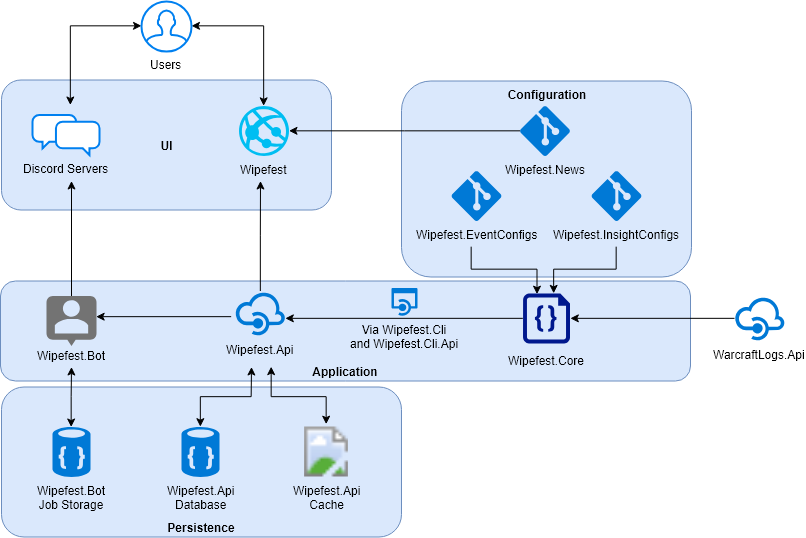
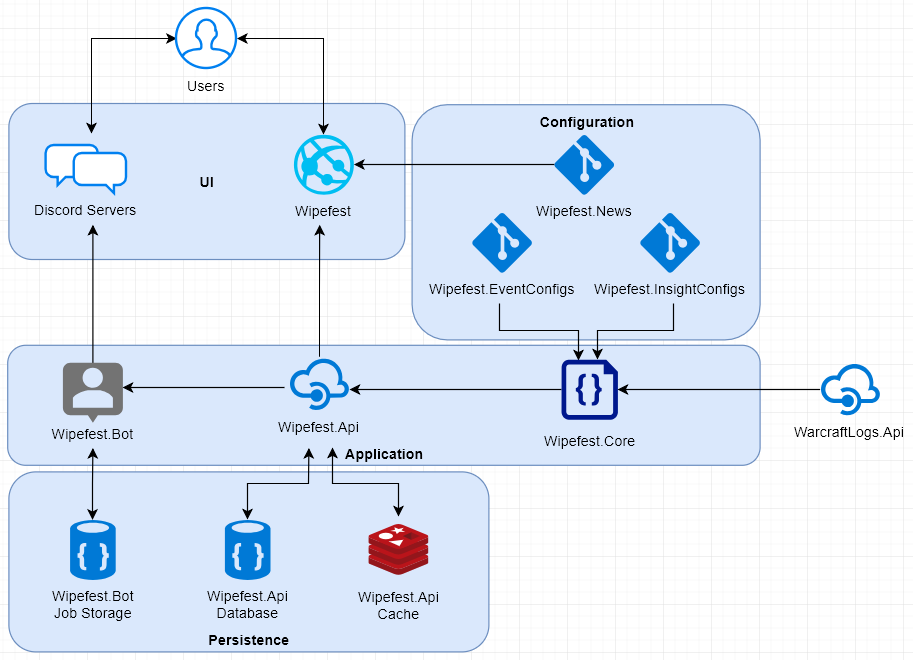
Readme

diff --git a/README.md b/README.md
@@ -1,28 +1,65 @@
 # Wipefest
 
-This project was generated with [Angular CLI](https://github.com/angular/angular-cli) version 1.0.3.
+[Wipefest](https://www.wipefest.net/) uses data from [Warcraft Logs](https://www.warcraftlogs.com/) to display insights and timelines for raid encounters.
 
-## Development server
+This repository contains the code for the Wipefest frontend. The frontend is an [Angular 6](https://angular.io/) application, running inside of [Node.js](https://nodejs.org/en/) as an [Express](https://expressjs.com/) server.
 
-Run `ng serve` for a dev server. Navigate to `http://localhost:4200/`. The app will automatically reload if you change any of the source files.
+## How does it all fit together?
 
-## Code scaffolding
+The architecture of the entire Wipefest solution is separated into a few distinct layers.
 
-Run `ng generate component component-name` to generate a new component. You can also use `ng generate directive|pipe|service|class|module`.
+This project focuses mostly on presentation and user experience, with all actual logic handled by the [Wipefest.Core](https://github.com/JoshYaxley/Wipefest.Core) library, and persistence handled by [Wipefest.Api](https://github.com/JoshYaxley/Wipefest.Api).
 
-## Build
+The relationships between the Wipefest family of projects is as follows:
 
-Run `ng build` to build the project. The build artifacts will be stored in the `dist/` directory. Use the `-prod` flag for a production build.
+![](/docs/infrastructure.png)
 
-## Running unit tests
+To understand which layer is responsible for which domain, consider a user requesting Wipefest to process and return a fight:
 
-Run `ng test` to execute the unit tests via [Karma](https://karma-runner.github.io).
+### Wipefest
 
-## Running end-to-end tests
+A user uses the Wipefest frontend to find the fight that they want to see data for. The frontend makes a HTTP request to Wipefest.Api for the data. When the data is returned, the frontend presents it appropriately.
 
-Run `ng e2e` to execute the end-to-end tests via [Protractor](http://www.protractortest.org/).
-Before running the tests make sure you are serving the app via `ng serve`.
+### Wipefest.Api
 
-## Further help
+When the API receives a request for fight data, it first checks if it has processed that fight before. If it has, it will pull the previous results from its [Redis](https://redis.io/) cache, and return that. Otherwise, it will call into the Wipefest.Core library. When Wipefest.Core returns the data, the API caches it and returns it.
 
-To get more help on the Angular CLI use `ng help` or go check out the [Angular CLI README](https://github.com/angular/angular-cli/blob/master/README.md).
+### Wipefest.Core
+
+The core library exists as an [NPM package](https://www.npmjs.com/package/@wipefest/core) that people can use in their own projects. When this library receives a request to process a fight, it pulls configuration data from [Wipefest.EventConfigs](https://github.com/JoshYaxley/Wipefest.EventConfigs/) to work out what events it should be building. It then makes the relevant requests to the [Warcraft Logs API](https://www.warcraftlogs.com/v1/docs) to get the data it needs to build the events. It then calculates insights based on these events, and returns everything.
+
+> An almost identical flow is used when people interact with Wipefest via Discord, except that the Wipefest frontend is replaced by the [Wipefest.Bot](https://github.com/JoshYaxley/Wipefest.Bot)
+
+## Run the application
+
+Install the Angular CLI globally:
+
+`npm install @angular.cli --global`
+
+Clone the repository:
+
+`git clone https://github.com/JoshYaxley/Wipefest.git`
+
+Change directory:
+
+`cd Wipefest`
+
+Install dependencies:
+
+`npm install`
+
+Serve the application locally:
+
+`ng serve`
+
+Then visit [http://localhost:4200](http://localhost:4200) in your browser.
+
+## Contribute
+
+1. Get in touch on our Discord server or using the issue tracker
+2. Fork this repository
+3. Make a feature branch
+4. Commit/push your changes
+5. Make a pull request
+
+> To contribute to [Wipefest.Core](https://github.com/JoshYaxley/Wipefest.Core), [Wipefest.Api](https://github.com/JoshYaxley/Wipefest.Api), [Wipefest.EventConfigs](https://github.com/JoshYaxley/Wipefest.EventConfigs), or [Wipefest.Bot](https://github.com/JoshYaxley/Wipefest.Bot), see their respective repositories.
